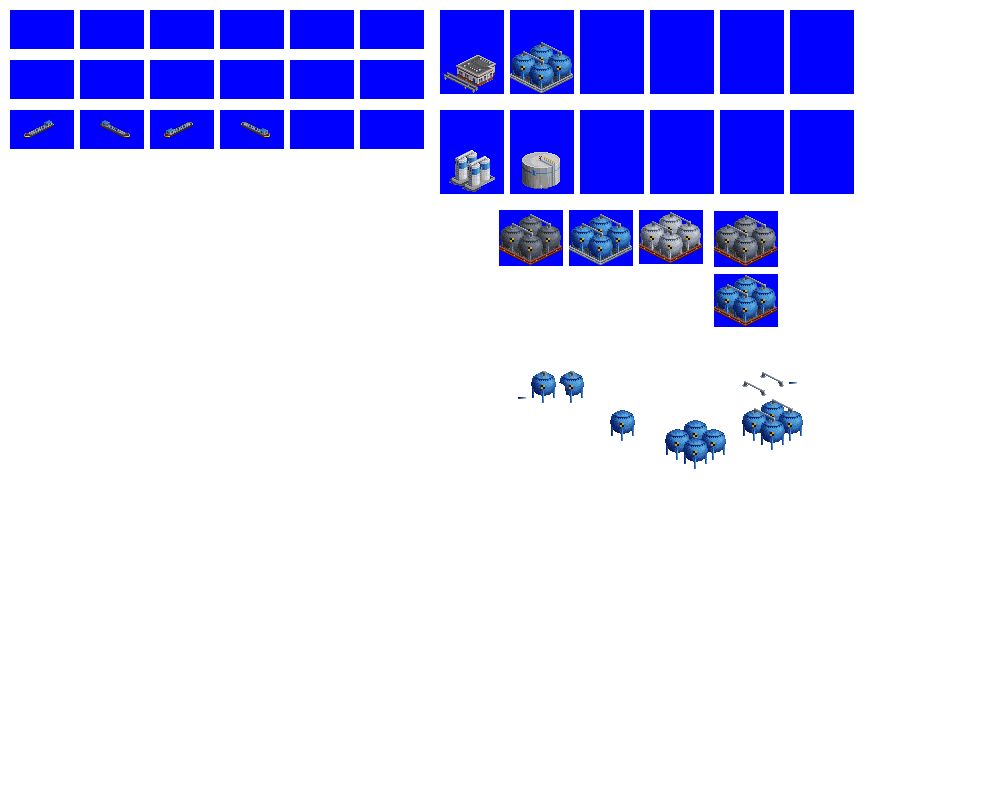
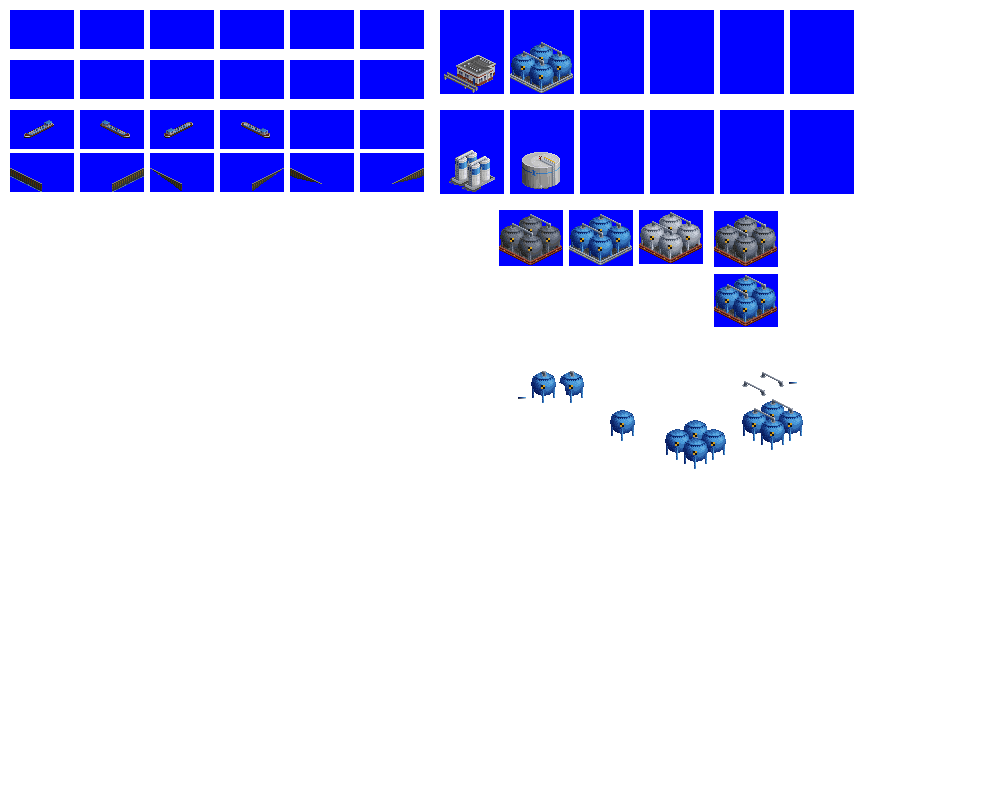
update water pump

Changed region(s): [[0.0, 0.1875, 0.434, 0.25]]

diff --git a/src/industries/facility_water_pump.py b/src/industries/facility_water_pump.py
@@ -36,14 +36,39 @@ spriteset_small_tanks = industry.add_spriteset(
     sprites=[(440, 110, 64, 84, -31, -43)],
     zoffset=18,
 ) 
-
+spriteset_jetty_se_nw = industry.add_spriteset(
+    sprites=[(10, 153, 64, 39, -31, -7)],
+    always_draw=True,
+)
+spriteset_jetty_ne_sw = industry.add_spriteset(
+    sprites=[(80, 153, 64, 39, -31, -7)], always_draw=1
+)
+spriteset_jetty_slope_nw_se = industry.add_spriteset(
+    sprites=[(150, 153, 64, 39, -31, -7)],
+)
+spriteset_jetty_slope_ne_sw = industry.add_spriteset(
+    sprites=[(220, 153, 64, 39, -31, -7)],
+)
+spriteset_jetty_slope_se_nw = industry.add_spriteset(
+    sprites=[(290, 153, 64, 39, -31, -7)],
+)
+spriteset_jetty_slope_sw_ne = industry.add_spriteset(
+    sprites=[(360, 153, 64, 39, -31, -7)],
+)
 industry.add_magic_spritelayout(
     type="jetty_coast_foundations",
     base_id="facility_water_pump_spritelayout_small_tanks",
     tile="facility_water_pump_tile_1",
     config={
         "ground_sprite": None,
-        "jetty_foundations": True,
+        "foundation_sprites": {
+            "ne_sw": spriteset_jetty_ne_sw,
+            "se_nw": spriteset_jetty_se_nw,
+            "slope_nw_se": spriteset_jetty_slope_nw_se,
+            "slope_ne_sw": spriteset_jetty_slope_ne_sw,
+            "slope_se_nw": spriteset_jetty_slope_se_nw,
+            "slope_sw_ne": spriteset_jetty_slope_sw_ne,
+        },
         "building_sprites": {
             "slope_nw_se": [
                 spriteset_small_tanks,
